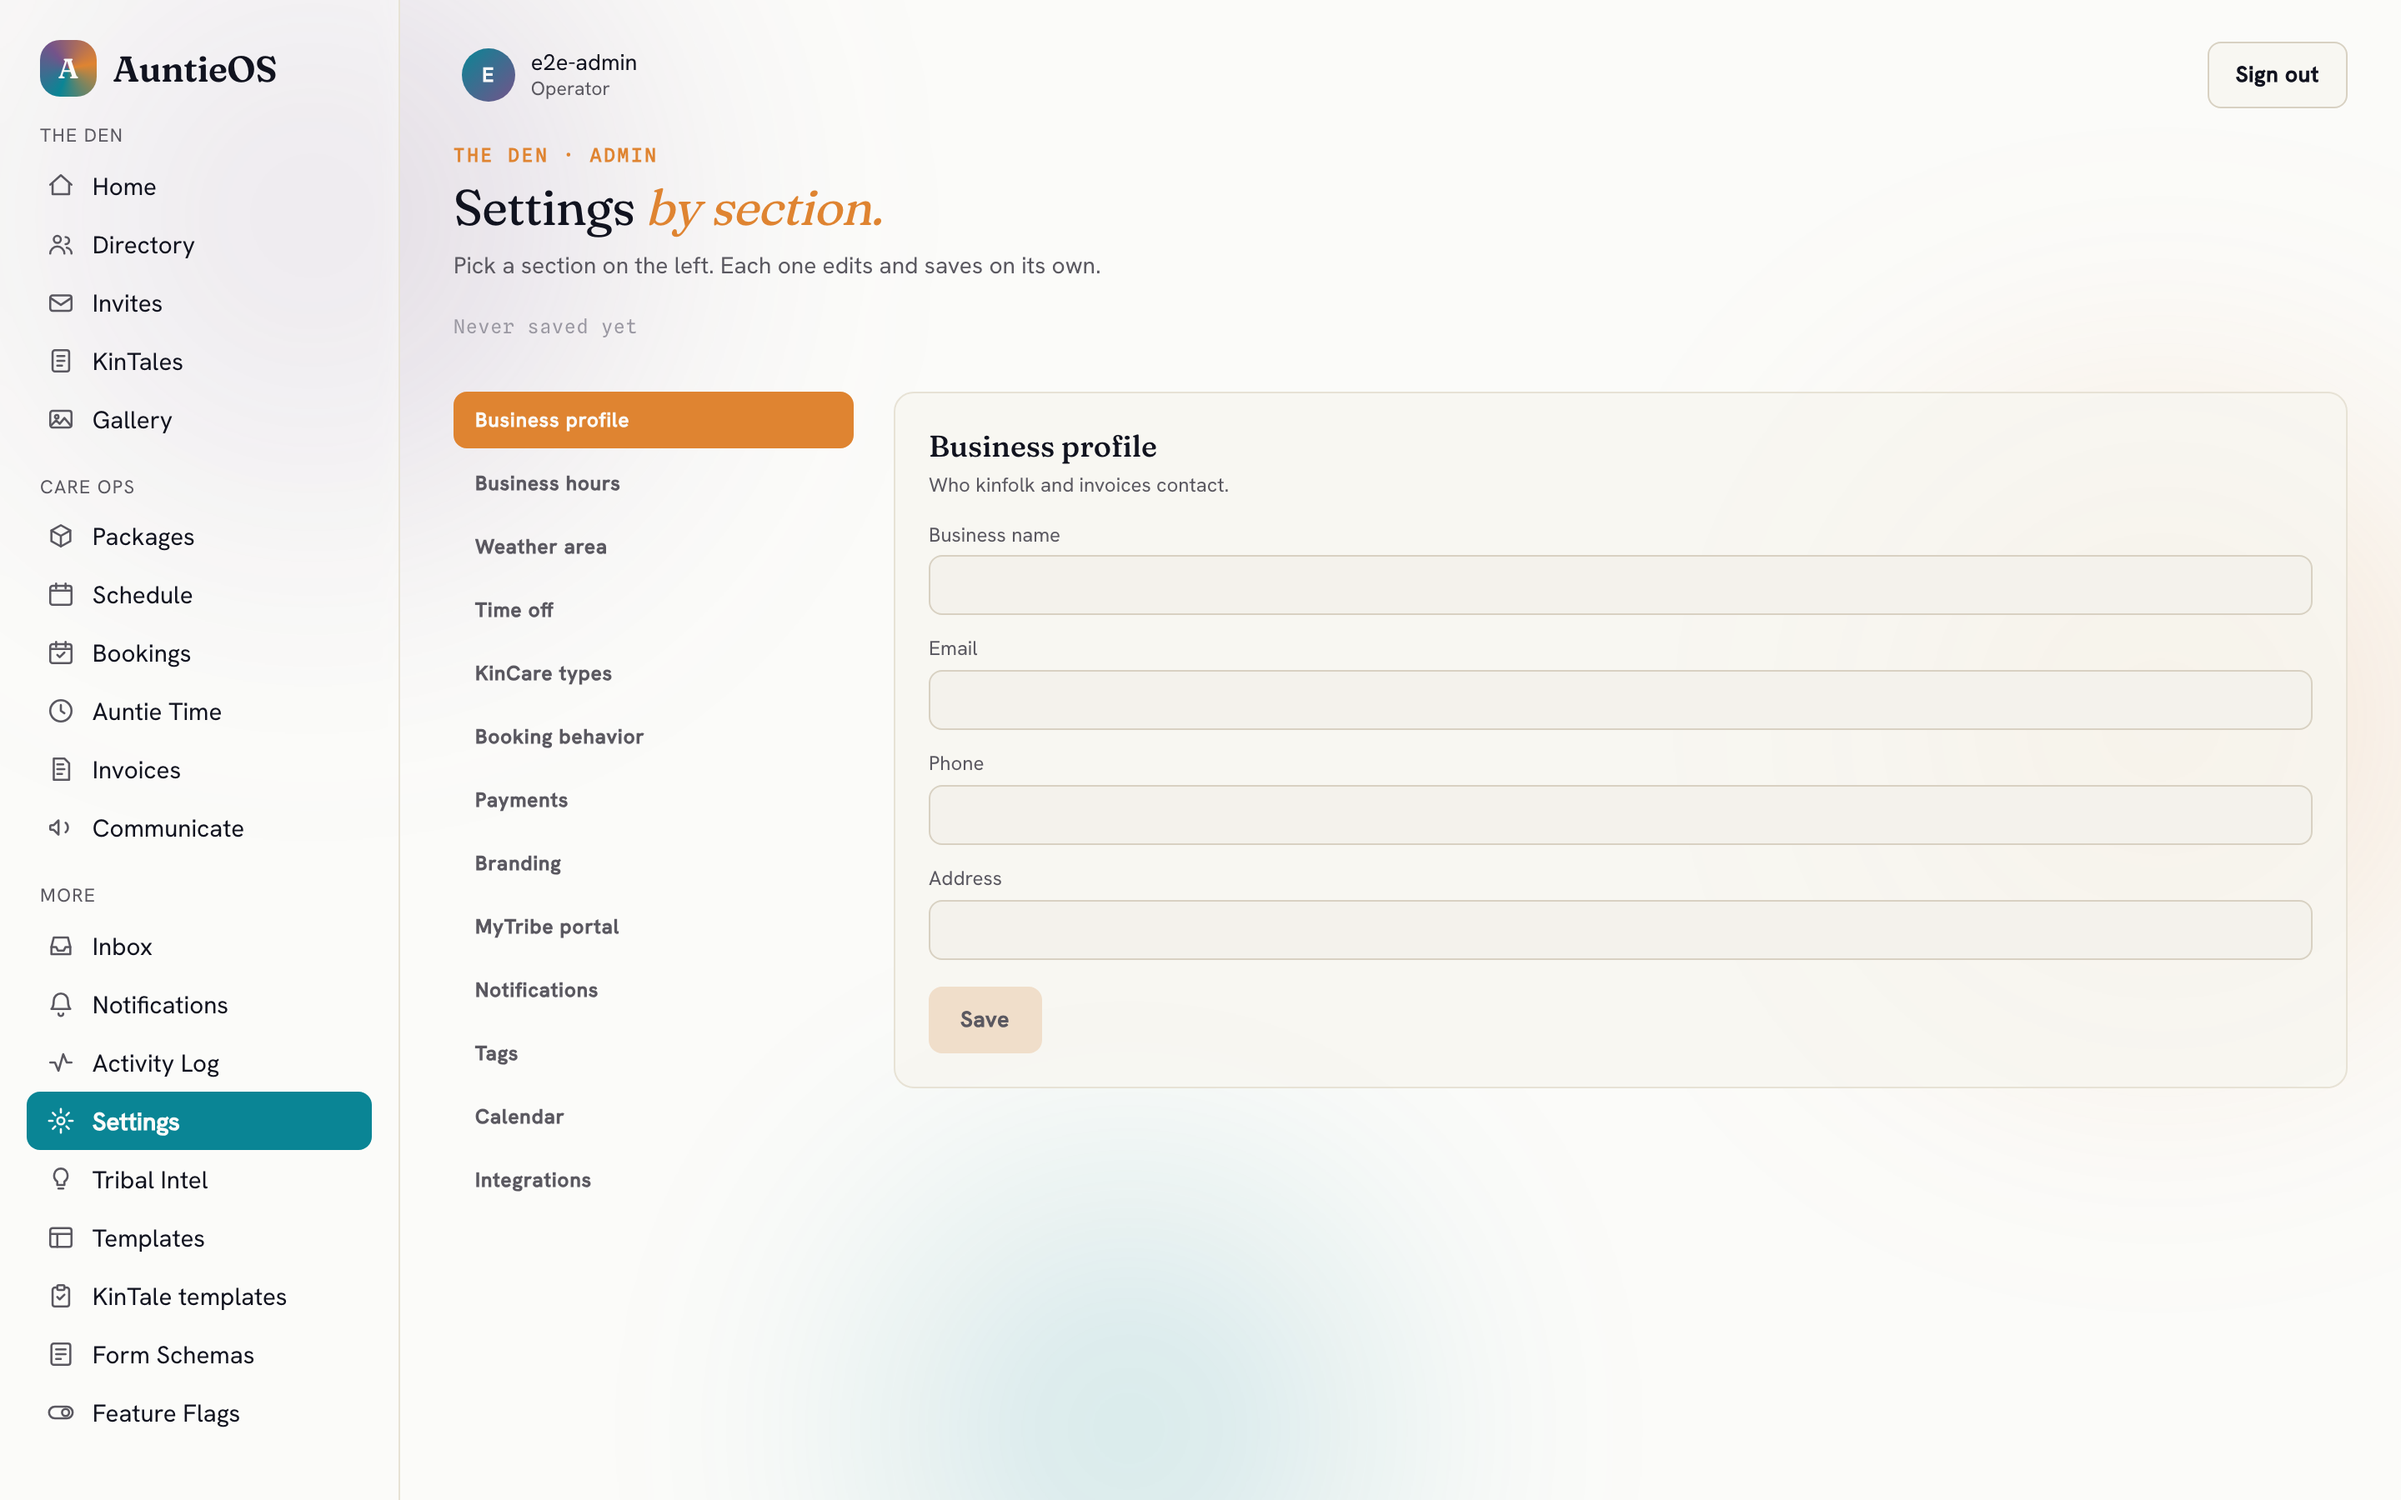
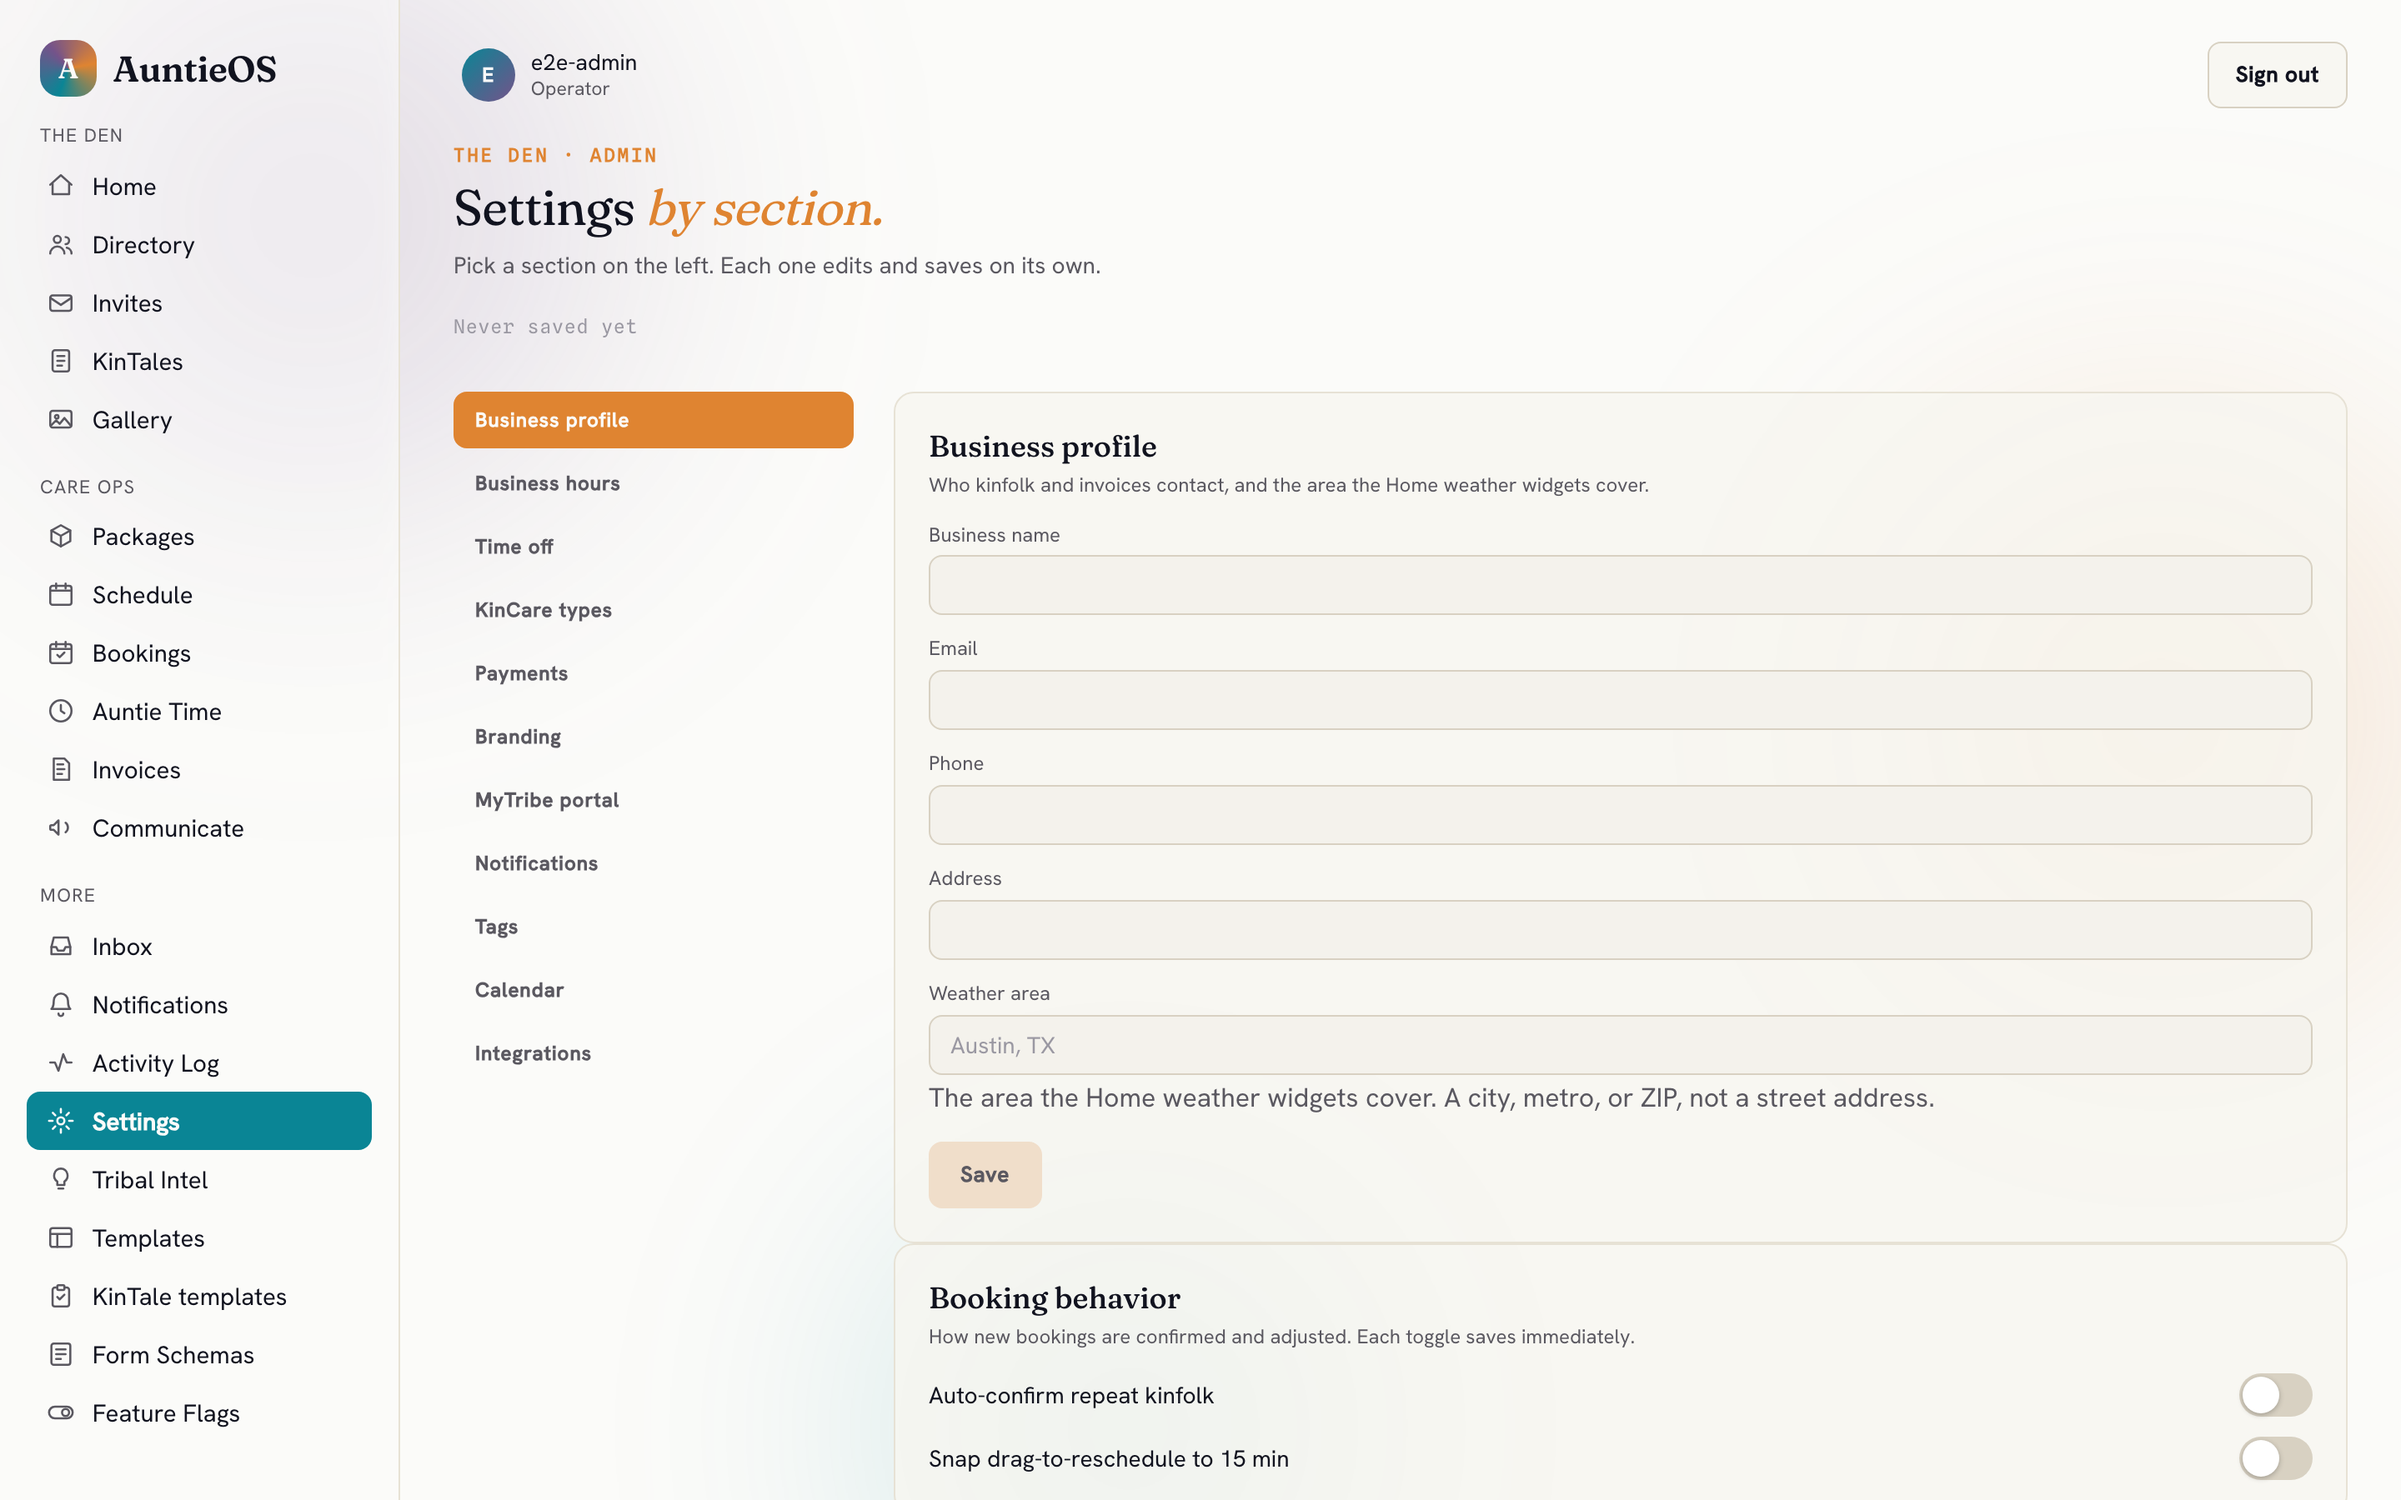
Fold the two one-field settings pages into Business profile (#374)
* Fold the two one-field settings pages into Business profile

Mark 16 of the 2026-08-17 admin walk, standing on Booking behavior: "move
this and weather area to related setting pages. it does not need to be its
own page with so little fields". Asked where, the operator said Business
profile.

Weather area was one text box. Booking behavior was two toggles. Each had a
nav entry of its own in a list of thirteen, so finding either meant reading
past eleven other section names to reach three fields.

Weather area's field joins `BUSINESS_PROFILE_FIELDS` outright. Its label
becomes "Weather area" rather than "City, metro, or ZIP", and the hint under
it carries what the retired panel's subtitle said, because that copy was
drawing a distinction ("a coverage area, not a street address") that matters
MORE now that it sits two rows under a field called Address.

Booking behavior moves into the same tab but stays its own PANEL. The two
save differently: the text fields stage a draft behind a Save button, the
toggles write on every flip and deliberately have no Save. Merging them into
one panel would leave a Save button standing beside controls that had
already saved, which is a worse lie than an extra nav entry.

Thirteen tabs down to eleven. The tab-count assertion is updated with the
reason rather than the number alone, and now also asserts the two names are
GONE, so a future rebase that resurrects a tab fails here instead of quietly
restoring the thing the walk complained about.
[…]

diff --git a/auntieos-admin/src/screens/Settings.test.tsx b/auntieos-admin/src/screens/Settings.test.tsx
@@ -208,10 +208,14 @@ describe('Settings — section nav shell', () => {
     expect(tablist).toHaveAttribute('aria-orientation', 'vertical');
 
     const tabs = within(tablist).getAllByRole('tab');
-    // 13: 12 after the 2026-07-31 calendar-tab merge (two calendar features,
-    // one tab), plus Integrations, which reports on every outside service
-    // rather than editing anything, so it sits last.
-    expect(tabs).toHaveLength(13);
+    // 11. Was 13: the 2026-07-31 calendar-tab merge took two calendar features
+    // down to one tab, then mark 16 of the 2026-08-17 walk folded Weather area
+    // and Booking behavior into Business profile ("it does not need to be its
+    // own page with so little fields"). Integrations still sits last, because
+    // it reports on outside services rather than editing anything.
+    expect(tabs).toHaveLength(11);
+    expect(screen.queryByRole('tab', { name: /weather area/i })).not.toBeInTheDocument();
+    expect(screen.queryByRole('tab', { name: /booking behavior/i })).not.toBeInTheDocument();
     expect(screen.queryByRole('tab', { name: /google calendar/i })).not.toBeInTheDocument();
     expect(screen.getByRole('tab', { name: 'Business profile' })).toHaveAttribute('aria-selected', 'true');
   });
@@ -359,11 +363,14 @@ describe('Settings — Business profile editor', () => {
     expect(saveBtn).toBeEnabled();
 
     await userEvent.click(saveBtn);
+    // `weatherLocation` rides along because this panel saves every field it
+    // renders, and it renders that one since mark 16 moved it here.
     expect(saveBusinessSettings).toHaveBeenCalledWith({
       businessName: 'New Name',
       businessEmail: '',
       businessPhone: '',
       businessAddress: '',
+      weatherLocation: '',
     });
     expect(await within(panel).findByText('Saved')).toBeInTheDocument();
     expect(within(panel).getByRole('button', { name: /^save$/i })).toBeDisabled();
@@ -417,7 +424,7 @@ describe('Settings — Booking behavior (instant-save toggles)', () => {
     saveBusinessSettings.mockResolvedValue({ updatedAt: 'x', updatedBy: 'y' });
     render(<Settings />);
     await screen.findByLabelText('Business name');
-    const panel = await openSection('Booking behavior');
+    const panel = await openSection('Business profile');
     const sw = within(panel).getByRole('switch', { name: /auto-confirm repeat kinfolk/i });
     expect(sw).toHaveAttribute('aria-checked', 'false');
     await userEvent.click(sw);
@@ -433,7 +440,7 @@ describe('Settings — Booking behavior (instant-save toggles)', () => {
     saveBusinessSettings.mockRejectedValue(new Error('offline'));
     render(<Settings />);
     await screen.findByLabelText('Business name');
-    const panel = await openSection('Booking behavior');
+    const panel = await openSection('Business profile');
     await userEvent.click(within(panel).getByRole('switch', { name: /snap drag-to-reschedule/i }));
     expect(await within(panel).findByText(/offline/i)).toBeInTheDocument();
     expect(within(panel).getByRole('switch', { name: /snap drag-to-reschedule/i })).toHaveAttribute(
@@ -443,6 +450,34 @@ describe('Settings — Booking behavior (instant-save toggles)', () => {
   });
 });
 
+/**
+ * Mark 16 of the 2026-08-17 walk: "move this and weather area to related
+ * setting pages. it does not need to be its own page with so little fields".
+ * The operator named Business profile. These pin that both arrived, and that
+ * the two save models did not get merged on the way.
+ */
+describe('Settings — Business profile absorbed the two thin sections', () => {
+  it('carries the weather field, labelled so it is not read as a second address', async () => {
+    getBusinessSettings.mockResolvedValue(withOverrides({ weatherLocation: 'Austin, TX' }));
+    render(<Settings />);
+    const panel = screen.getByRole('tabpanel');
+    expect(await within(panel).findByLabelText('Weather area')).toHaveValue('Austin, TX');
+    expect(within(panel).getByLabelText('Address')).toBeInTheDocument();
+    expect(within(panel).getByText(/not a street address/i)).toBeInTheDocument();
+  });
+  it('carries the booking toggles as their OWN panel, away from the staged Save', async () => {
+    getBusinessSettings.mockResolvedValue(DEFAULT_BUSINESS_SETTINGS);
+    render(<Settings />);
+    const panel = screen.getByRole('tabpanel');
+    await within(panel).findByLabelText('Business name');
+    expect(within(panel).getByRole('switch', { name: /auto-confirm repeat kinfolk/i })).toBeInTheDocument();
+    expect(within(panel).getByRole('switch', { name: /snap drag-to-reschedule/i })).toBeInTheDocument();
+    // One Save button, and it belongs to the text fields. The toggles write on
+    // every flip, so a Save button beside them would be a lie about what is
+    // already stored.
+    expect(within(panel).getAllByRole('button', { name: /^save$/i })).toHaveLength(1);
+  });
+});
 describe('Settings — real editors wire through the shared persist', () => {
   it('Business hours: a per-day toggle saves the merged businessHours patch', async () => {
     getBusinessSettings.mockResolvedValue(DEFAULT_BUSINESS_SETTINGS);

diff --git a/auntieos-admin/src/screens/Settings.tsx b/auntieos-admin/src/screens/Settings.tsx
@@ -11,7 +11,6 @@ import {
   BookingBehaviorSection,
   MyTribePortalSection,
   BUSINESS_PROFILE_FIELDS,
-  WEATHER_AREA_FIELDS,
   PAYMENT_FIELDS,
 } from './settings/sections';
 import { BrandingSection } from './settings/BrandingSection';
@@ -67,10 +66,8 @@ import './Settings.css';
 type SectionId =
   | 'businessProfile'
   | 'businessHours'
-  | 'weather'
   | 'timeOff'
   | 'kinCare'
-  | 'booking'
   | 'payments'
   | 'branding'
   | 'mytribe'
@@ -83,10 +80,8 @@ type SectionId =
 const SECTIONS: readonly SectionNavItem<SectionId>[] = [
   { id: 'businessProfile', label: 'Business profile' },
   { id: 'businessHours', label: 'Business hours' },
-  { id: 'weather', label: 'Weather area' },
   { id: 'timeOff', label: 'Time off' },
   { id: 'kinCare', label: 'KinCare types' },
-  { id: 'booking', label: 'Booking behavior' },
   { id: 'payments', label: 'Payments' },
   { id: 'branding', label: 'Branding' },
   { id: 'mytribe', label: 'MyTribe portal' },
@@ -274,34 +269,36 @@ function renderDataSection(
   applyServerChange: (patch: Partial<BusinessSettings>) => void,
 ): ReactNode {
   switch (id) {
+    // THREE PANELS, ONE TAB. Weather area was one text box and Booking
+    // behavior was two toggles, each behind its own nav entry. Mark 16 of the
+    // 2026-08-17 walk: "move this and weather area to related setting pages. it
+    // does not need to be its own page with so little fields", and the operator
+    // named Business profile as where they go.
+    //
+    // Booking behavior stays its own PANEL rather than being folded into the
+    // fields above, because the two save differently: the text fields stage a
+    // draft behind a Save button, the toggles write on every flip. Merging them
+    // into one panel would put a Save button next to controls that have already
+    // saved.
     case 'businessProfile':
       return (
-        <TextFieldsSection
-          title="Business profile"
-          subtitle="Who kinfolk and invoices contact."
-          data={data}
-          fields={BUSINESS_PROFILE_FIELDS}
-          onSave={persist}
-        />
+        <>
+          <TextFieldsSection
+            title="Business profile"
+            subtitle="Who kinfolk and invoices contact, and the area the Home weather widgets cover."
+            data={data}
+            fields={BUSINESS_PROFILE_FIELDS}
+            onSave={persist}
+          />
+          <BookingBehaviorSection data={data} onSave={persist} />
+        </>
       );
     case 'businessHours':
       return <BusinessHoursEditor data={data} onSave={persist} />;
-    case 'weather':
-      return (
-        <TextFieldsSection
-          title="Weather area"
-          subtitle="Coverage area for the Home weather widgets. A city, metro, or ZIP (e.g. &ldquo;Austin, TX&rdquo;), not a street address."
-          data={data}
-          fields={WEATHER_AREA_FIELDS}
-          onSave={persist}
-        />
-      );
     case 'timeOff':
       return <TimeOffEditor data={data} onSave={persist} />;
     case 'kinCare':
       return <KinCareRatesEditor data={data} onSave={persist} />;
-    case 'booking':
-      return <BookingBehaviorSection data={data} onSave={persist} />;
     case 'payments':
       return (
         <TextFieldsSection

diff --git a/auntieos-admin/src/screens/settings/sections.tsx b/auntieos-admin/src/screens/settings/sections.tsx
@@ -58,15 +58,25 @@ export interface TextFieldSpec {
   hint?: string;
 }
 
+/**
+ * `weatherLocation` joins this list rather than keeping the nav entry it had.
+ * Mark 16 of the 2026-08-17 walk: one text box does not need its own settings
+ * page, and the operator put it here. Its label and hint carry the whole of
+ * what the retired "Weather area" panel's subtitle used to say, because the
+ * distinction that copy was drawing (a coverage AREA, not the street address
+ * two fields above) matters more now that both live in one panel.
+ */
 export const BUSINESS_PROFILE_FIELDS: readonly TextFieldSpec[] = [
   { key: 'businessName', label: 'Business name' },
   { key: 'businessEmail', label: 'Email', type: 'email' },
   { key: 'businessPhone', label: 'Phone', type: 'tel' },
   { key: 'businessAddress', label: 'Address' },
-];
-
-export const WEATHER_AREA_FIELDS: readonly TextFieldSpec[] = [
-  { key: 'weatherLocation', label: 'City, metro, or ZIP', placeholder: 'Austin, TX' },
+  {
+    key: 'weatherLocation',
+    label: 'Weather area',
+    placeholder: 'Austin, TX',
+    hint: 'The area the Home weather widgets cover. A city, metro, or ZIP, not a street address.',
+  },
 ];
 
 // PR30: each hint is the processor's fee schedule (PAYMENT_METHOD_FEE_SCHEDULE
